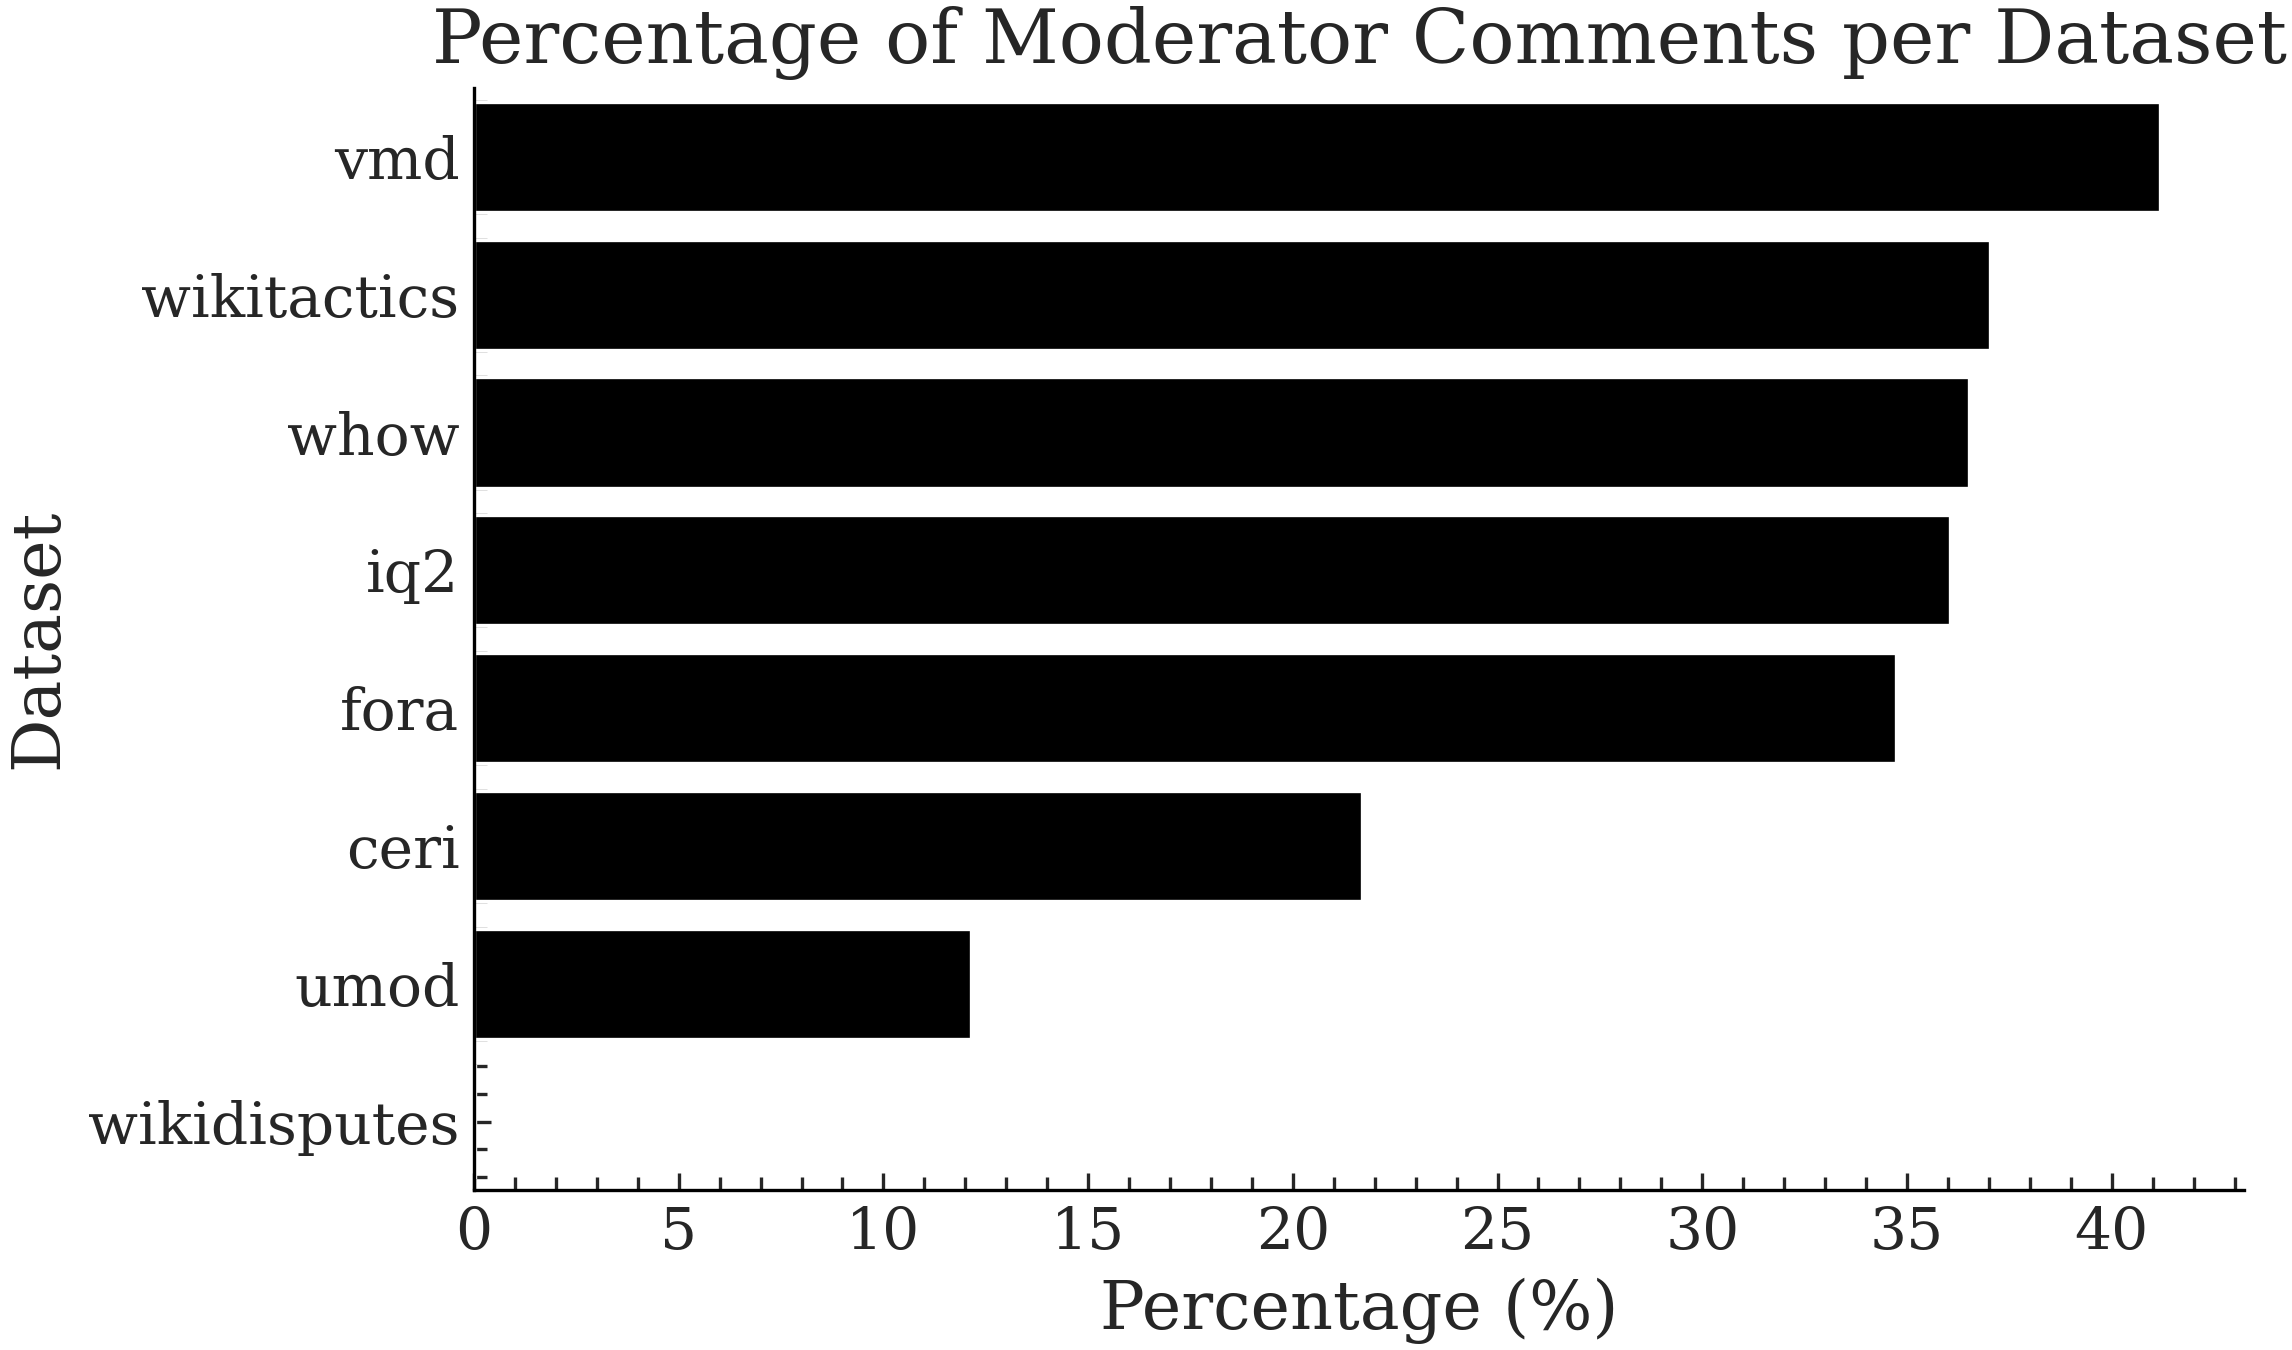
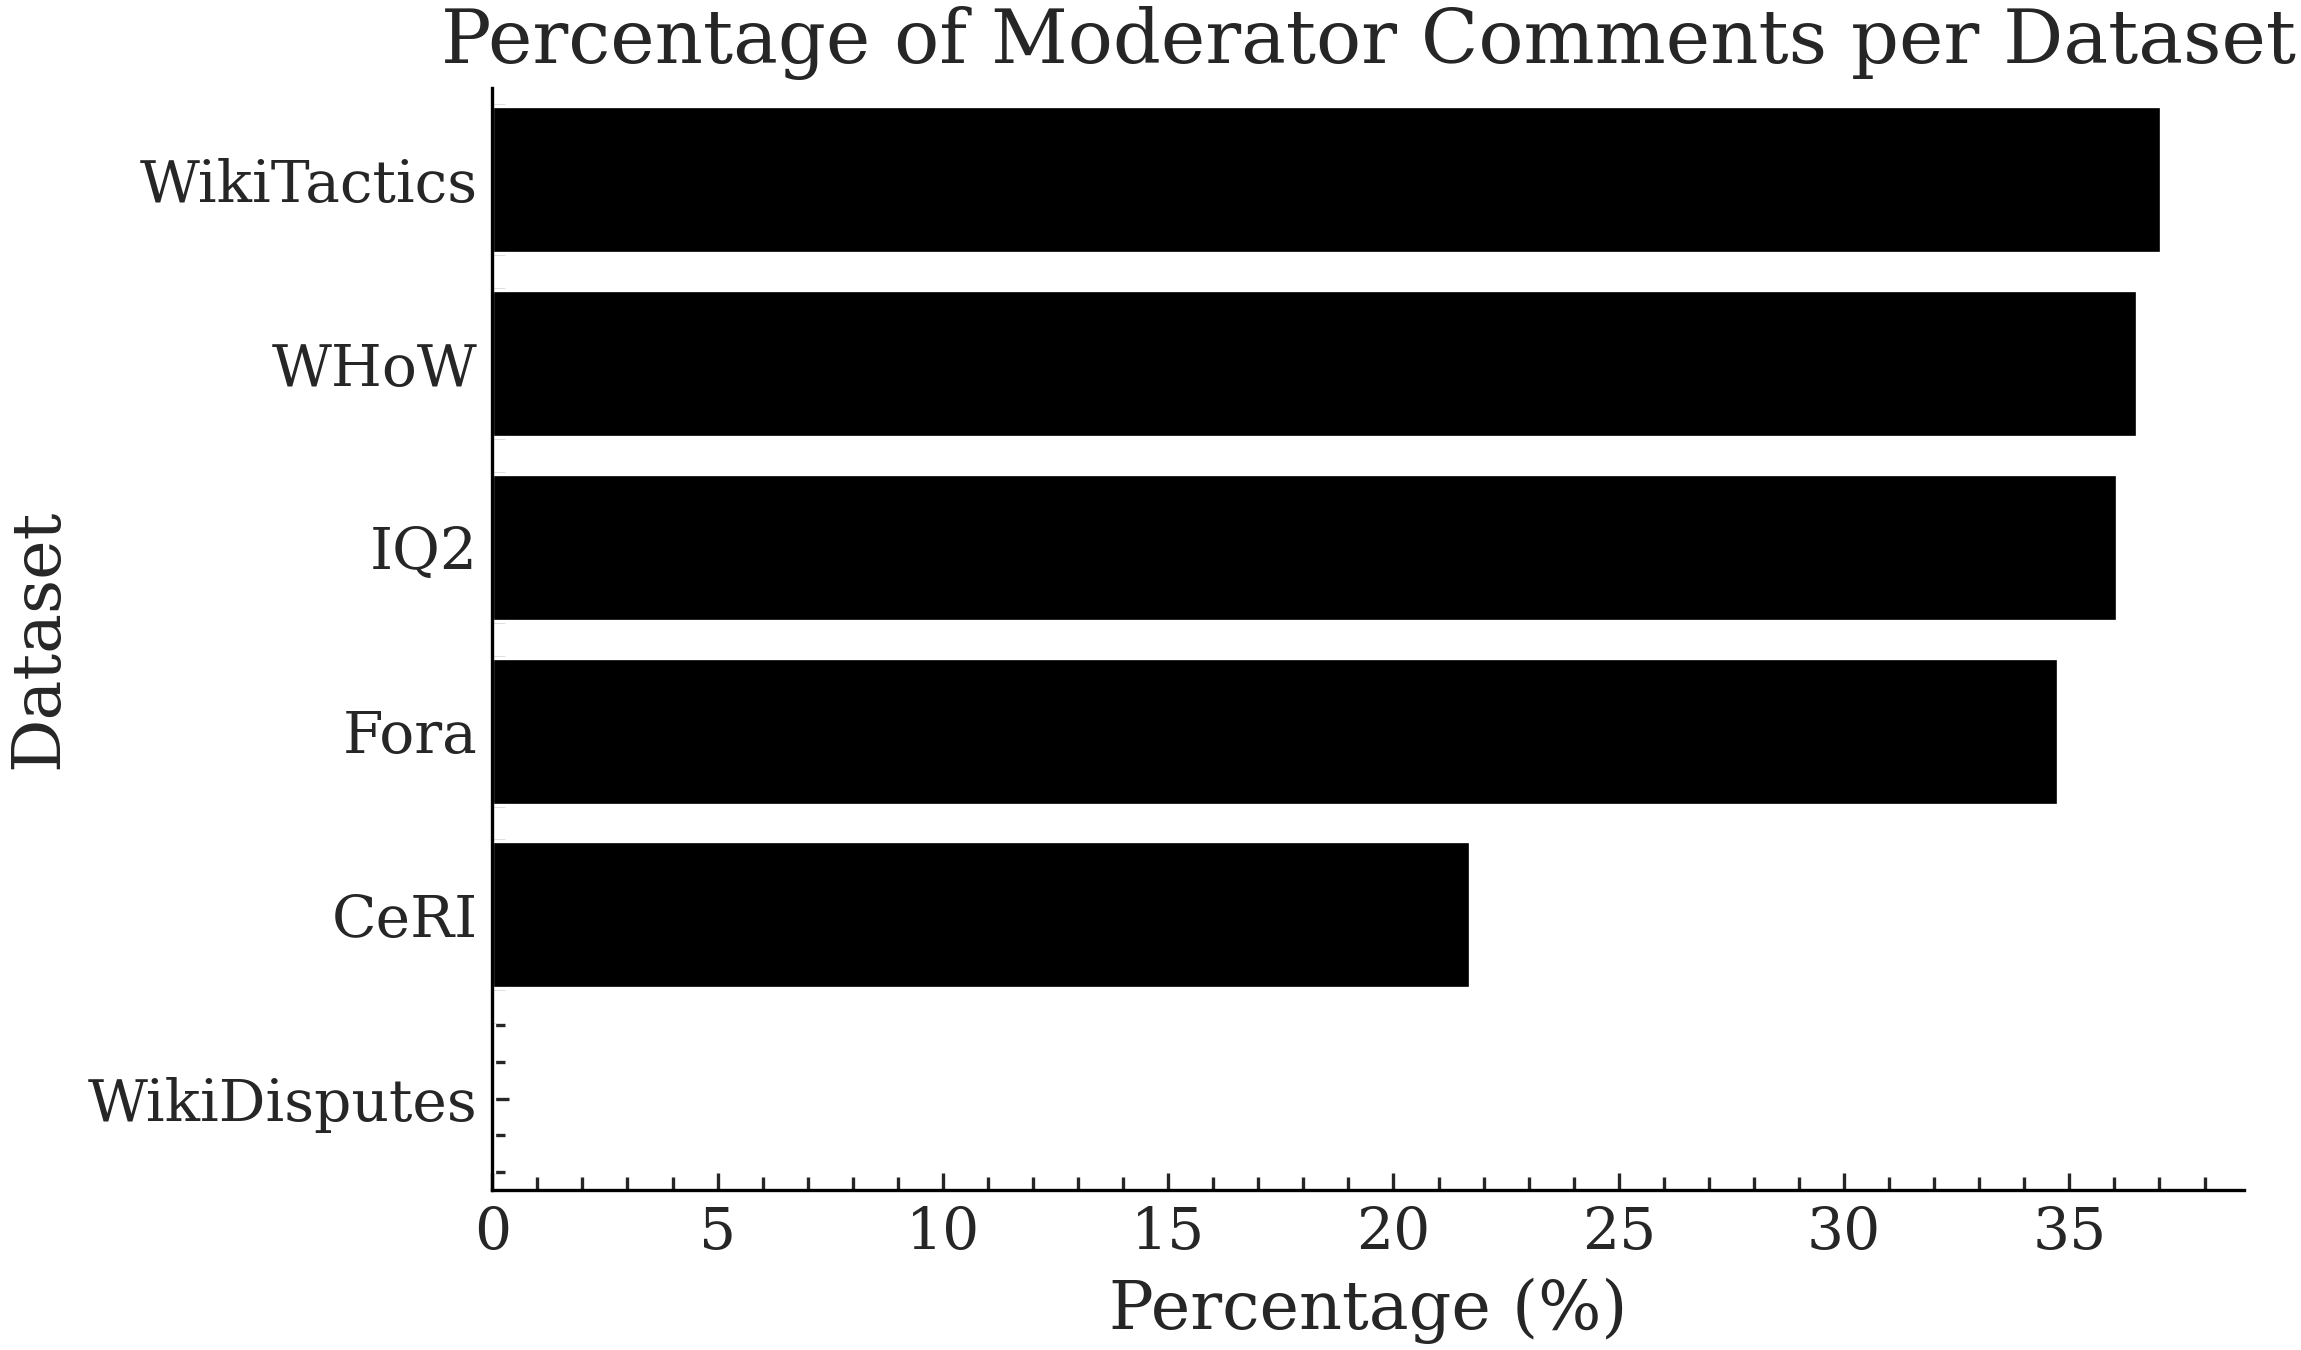
improve dataset statistics plots

diff --git a/src/dataset_analysis.py b/src/dataset_analysis.py
@@ -26,6 +26,39 @@ import matplotlib.pyplot as plt
 import util.io
 import util.graphs
 
+MAX_COMMENTS_PER_DISCUSSION = 500
+MAX_CHARACTERS_PER_COMMENT = 500
+
+
+def main(args):
+    util.graphs.seaborn_setup()
+
+    csv_path = Path(args.dataset_path)
+    graph_dir = Path(args.graph_dir)
+
+    print("Loading dataset to extract statistics...")
+    df = util.io.progress_load_csv(csv_path)
+    df = df[df.dataset != "vmd"]
+    df.dataset = df.dataset.replace(
+        {
+            "ceri": "CeRI",
+            "wikidisputes": "WikiDisputes",
+            "wikiconv": "WikiConv",
+            "fora": "Fora",
+            "umod": "UMod",
+            "wikitactics": "WikiTactics",
+            "whow": "WHoW",
+            "iq2": "IQ2",
+            "cmv_awry": "CMV-Awry",
+        }
+    )
+
+    print(f"Dataset total size: {convert_bytes(csv_path.stat().st_size)}")
+
+    words_per_comment_plot(df, graph_dir)
+    comments_per_discussion_plot(df, graph_dir)
+    moderation_plot(df[df.dataset != "UMod"], graph_dir=graph_dir)
+
 
 def convert_bytes(num):
     """
@@ -44,9 +77,10 @@ def comments_per_discussion_plot(df: pd.DataFrame, graph_dir: Path) -> None:
         .reset_index(name="comments_per_disc")
     )
 
-    # Cap at 200 because there is a tail going up to 1200 comments
+    # Cap at 2MAX_COMMENT_LEN_CHARS because there is a
+    # tail going up to 1200 comments
     disc_sizes["comments_per_disc"] = disc_sizes["comments_per_disc"].clip(
-        upper=200
+        upper=MAX_COMMENTS_PER_DISCUSSION
     )
 
     plt.figure(figsize=(8, 5))
@@ -59,7 +93,10 @@ def comments_per_discussion_plot(df: pd.DataFrame, graph_dir: Path) -> None:
         bins=40,  # do NOT let this go to auto
     )
     plt.title("Distribution of Comments per Discussion (Density)")
-    plt.xlabel("Number of Comments per Discussion (capped at 200)")
+    plt.xlabel(
+        "Number of Comments per Discussion "
+        f"(capped at {MAX_COMMENTS_PER_DISCUSSION})"
+    )
     plt.ylabel("Density")
     plt.tight_layout()
 
@@ -105,63 +142,23 @@ def words_per_comment_plot(df: pd.DataFrame, graph_dir: Path) -> None:
     )
 
     # Cap long tail (optional but very useful for readability)
-    df["words_per_comment"] = df["words_per_comment"].clip(upper=200)
+    df["words_per_comment"] = df["words_per_comment"].clip(upper=MAX_CHARACTERS_PER_COMMENT)
 
     plt.figure(figsize=(8, 5))
     sns.histplot(
         data=df,
         x="words_per_comment",
         hue="dataset",
-        bins=50, # do NOT let this go to auto
+        bins=50,  # do NOT let this go to auto
         stat="density",
         common_norm=False,
     )
     plt.title("Distribution of Words per Comment (Density)")
-    plt.xlabel("Words per Comment (capped at 200)")
+    plt.xlabel(F"Words per Comment (capped at {MAX_CHARACTERS_PER_COMMENT})")
     plt.ylabel("Density")
     plt.tight_layout()
 
     util.graphs.save_plot(graph_dir / "analysis_words_per_comment.png")
-
-
-def main(args):
-    util.graphs.seaborn_setup()
-
-    csv_path = Path(args.dataset_path)
-    graph_dir = Path(args.graph_dir)
-
-    print("Loading dataset to extract statistics...")
-    df = util.io.progress_load_csv(csv_path)
-
-    """
-    print("*" * 25)
-    print("Comments per discussion:")
-    print(df.groupby("conv_id").size().describe())
-
-    print("*" * 25)
-    print("Comments per dataset:")
-    print(df.groupby("dataset")["message_id"].nunique())
-
-    print("*" * 25)
-    print("Discussions per dataset:")
-    print(df.groupby("dataset")["conv_id"].nunique())
-
-    print("*" * 25)
-    print("Word count per comment:")
-    print(
-        df.text.astype(str)
-        .apply(lambda x: x.split())
-        .apply(len)
-        .astype(int)
-        .describe()
-    )
-    """
-    print("*" * 25)
-    print(f"Dataset total size: {convert_bytes(csv_path.stat().st_size)}")
-
-    words_per_comment_plot(df, graph_dir)
-    comments_per_discussion_plot(df, graph_dir)
-    moderation_plot(df, graph_dir=graph_dir)
 
 
 if __name__ == "__main__":